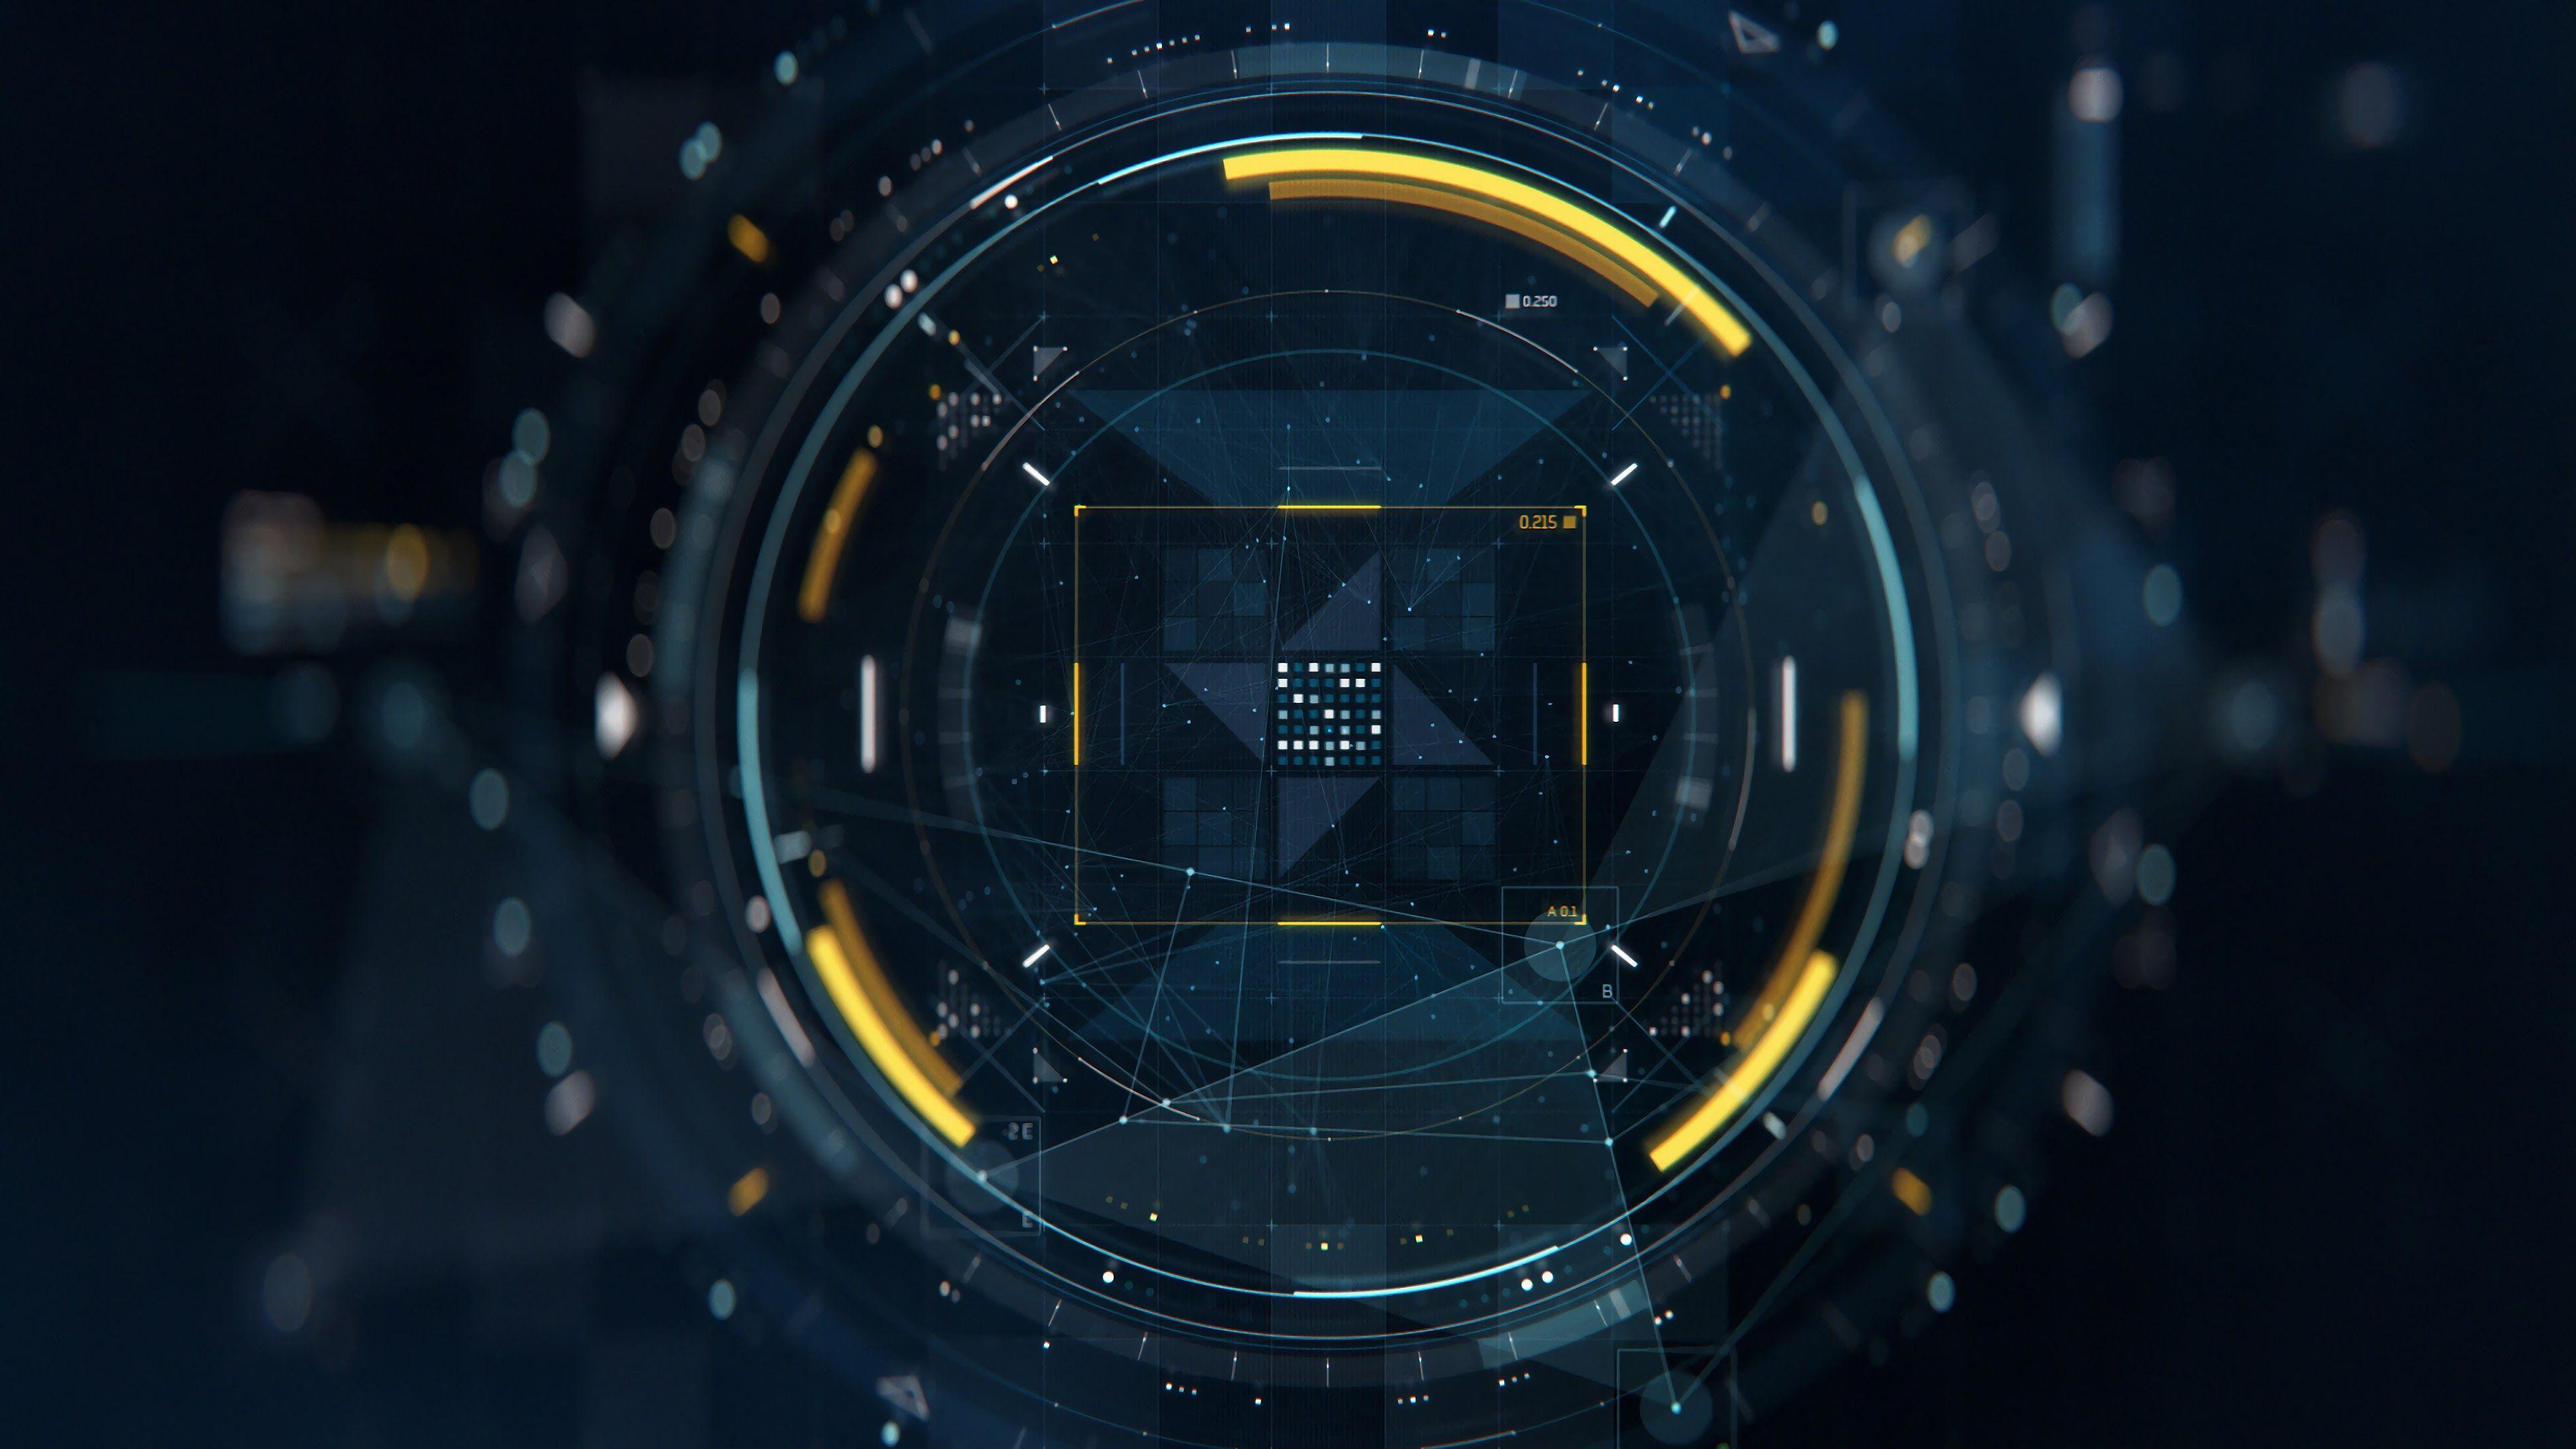
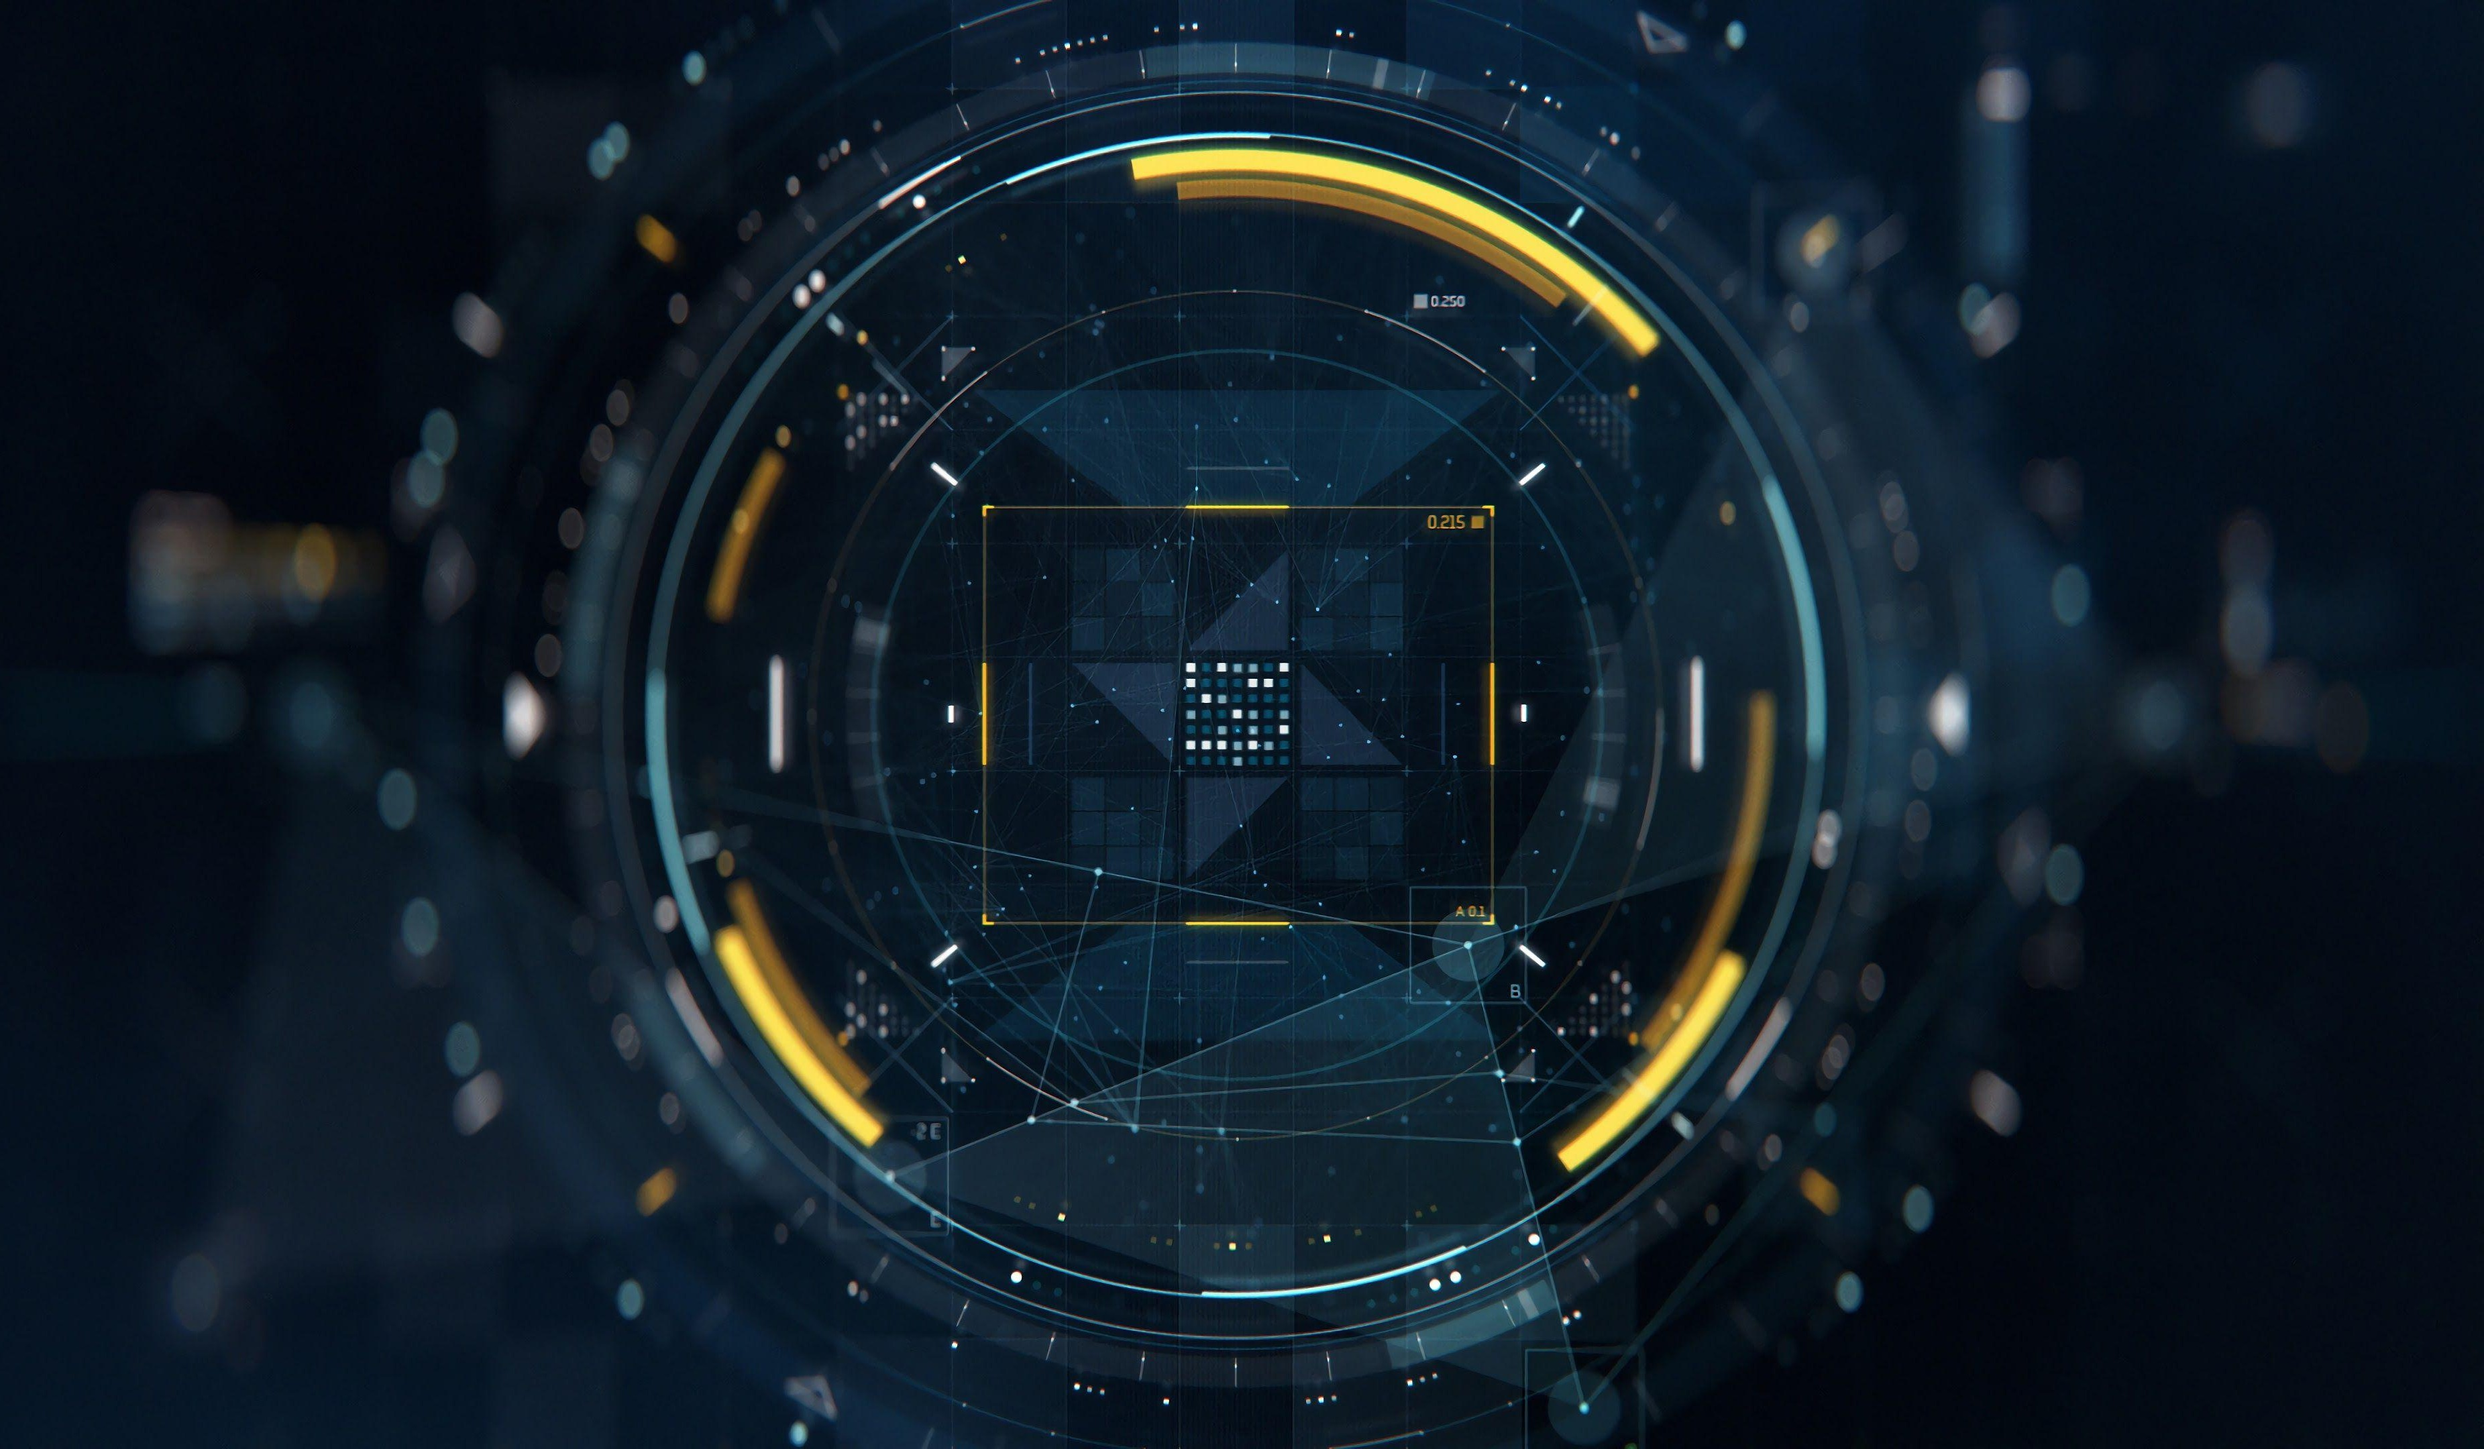
frontend: add "back button" for Demo page and About page
- Add lucide-react dependency
- Add back button for Demo page
- Add back button for About page
- Resize the background image so that the content looks more centered

diff --git a/frontend/src/components/about/BackBtn.tsx b/frontend/src/components/about/BackBtn.tsx
@@ -1,0 +1,18 @@
+import { ChevronLeft } from "lucide-react"
+import { useNavigate } from "react-router"
+
+function BackBtn() {
+    const nav = useNavigate()
+
+    return (
+        <div 
+            className="flex flex-row z-10 absolute top-[6dvh] left-[10dvw] justify-center items-center cursor-pointer hover:opacity-80"
+            onClick={() => nav('/')}
+        >
+            <ChevronLeft size={36} className="mr-4"/>
+            <p className="text-4xl text-white">Back</p>
+        </div>
+    )
+}
+
+export default BackBtn

diff --git a/frontend/src/components/demo/Demo.tsx b/frontend/src/components/demo/Demo.tsx
@@ -1,11 +1,14 @@
 import bg_img from '../../assets/bg/2.jpg'
+import BackBtn from '../about/BackBtn'
 import './demo.css'
 
 function DemoPage() {
     return (
         <div className="h-full w-full overflow-hidden flex relative justify-center items-center">
             <img src={bg_img} alt="" className="web-bg"/>
+            <BackBtn />
 
+            {/* Your code goes here */}
         </div>
     )
 }

diff --git a/frontend/src/components/about/About.tsx b/frontend/src/components/about/About.tsx
@@ -1,11 +1,12 @@
 import bg_img from '../../assets/bg/2.jpg'
 import './about.css'
+import BackBtn from './BackBtn'
 
 function AboutPage() {
     return (
         <div className="h-full w-full overflow-hidden flex relative justify-center items-center">
             <img src={bg_img} alt="" className="web-bg"/>
-
+            <BackBtn />
         </div>
     )
 }
